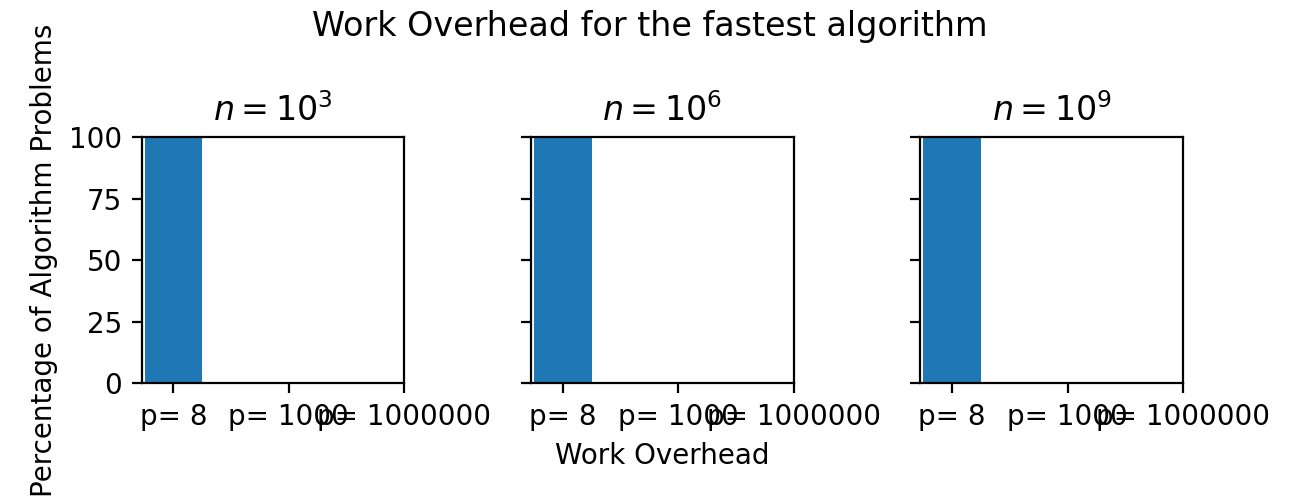
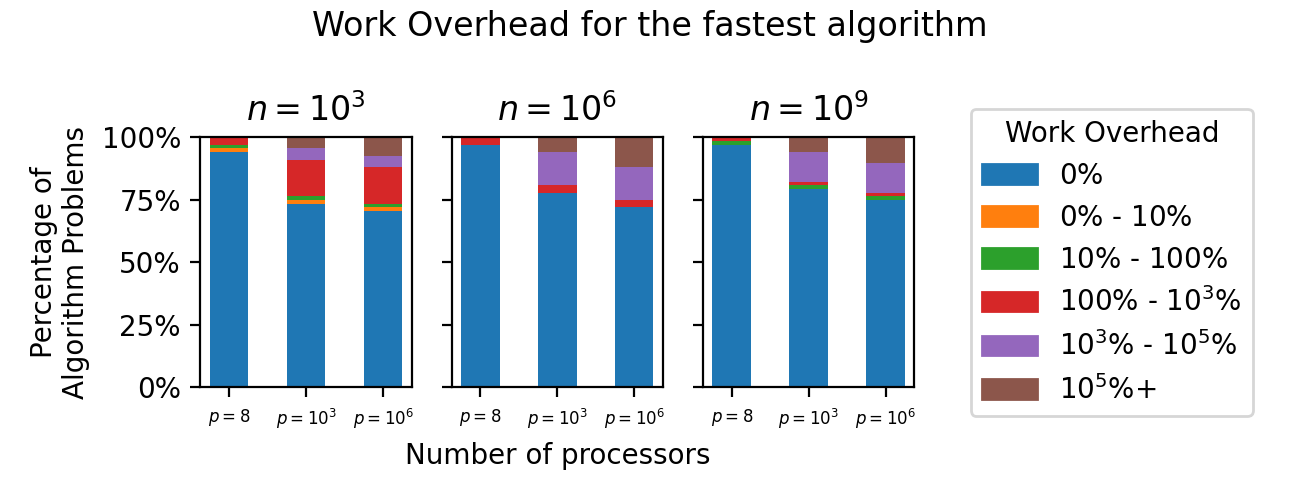
changed work overhead plot

diff --git a/src/paper_plots/aggregate_switch_to_work_ineff.py b/src/paper_plots/aggregate_switch_to_work_ineff.py
@@ -1,5 +1,6 @@
 # collection of aggregate graphs for speedup vs processors
 from header import *
+from matplotlib.ticker import PercentFormatter
 
 
 # what percentage of families have their best (in terms of speedup) algo be
@@ -391,7 +392,7 @@ def work_overhead_histogram(par_data,seq_data,problems,p,n=10**6,
     # for every problem, find its work overhead and increment the bucket's count
     overhead_bucket_counts = [0]*n_of_buckets
     for problem in problems:
-        print(problem)
+        #print(problem)
         max_speedup = best_algos_by_speedup(par_data,seq_data,problem,n=n,max_p=p+1,
                             allowed_models=allowed_models)
         # print(max_speedup)
@@ -428,7 +429,7 @@ def work_overhead_histogram(par_data,seq_data,problems,p,n=10**6,
             #     print(problem)
             overhead_bucket_counts[j] += 1
         
-    print(overhead_bucket_counts)
+    #print(overhead_bucket_counts)
 
     return [overhead_bucket_counts[i]/sum(overhead_bucket_counts) for i in range(len(overhead_bucket_counts))]
 
@@ -487,8 +488,11 @@ def NEW_work_overhead_histogram_graph_multiple_p(par_data,seq_data,problems,p_va
         
         ax[i].set_title("$n = " + str(get_nice_n(n))+"$")
 
-    ax[int(len(n_values)/2)].set_xlabel("Work Overhead")
-    ax[0].set_ylabel("Percentage of Algorithm Problems")
+    
+
+    ax[i].yaxis.set_major_formatter(PercentFormatter(xmax=100))
+    ax[int(len(n_values)/2)].set_xlabel("Number of processors")
+    ax[0].set_ylabel("Percentage of\nAlgorithm Problems")
     fig.suptitle("Work Overhead for the fastest algorithm")
 
     plt.savefig(SAVE_LOC+'NEW_work_overhead_histo_different_ps.png')
@@ -496,42 +500,61 @@ def NEW_work_overhead_histogram_graph_multiple_p(par_data,seq_data,problems,p_va
 
     pass
 
-def NEW_work_overhead_histogram_graph_helper(ax,par_data,seq_data,problems,n,p_values=[8,10**3,10**6],
-                            upper_bounds=[0,10,50,100,math.inf],
-                            max_p=10**9,allowed_models=set(model_dict.keys())):
+
+def NEW_work_overhead_histogram_graph_helper(ax, par_data, seq_data, problems, n, 
+                                             p_values=[8, 10**3, 10**6],
+                                             upper_bounds=[0, 10, 50, 100, math.inf], 
+                                             max_p=10**9, 
+                                             allowed_models=set(model_dict.keys())):
 
     x_positions = np.arange(len(p_values))
 
-    j=0
-    handles = []
-    bucket_colors=[]
-    for b in range(len(upper_bounds)-1):
-        b_color = COLORS[j]
-        bucket_colors.append(b_color)
-        # new_patch = mpatches.Patch(color=b_color, 
-        #                            label="$" + get_nice_n(upper_bounds[b]) + "$" + "-" + "$" + get_nice_n(upper_bounds[b+1]) + "$" + "%")
-        # handles.append(new_patch)
-        # j+=1
-    i=0
-    for p in p_values:
+    b_color=COLORS[0]
+    label=f"${0}$%"
+    bucket_colors = [b_color]
+    legend_patches = [mpatches.Patch(color=b_color, label=label)]  # List to store legend entries
 
-        # getting the x and y values
-        oh_histo = work_overhead_histogram(par_data,seq_data,problems,p,n=n,
-                            upper_bounds=upper_bounds,
-                            max_p=max_p,allowed_models=allowed_models)
-        
-        #stacked bar
+
+    for j in range(len(upper_bounds) - 1):
+        b_color = COLORS[j+1]  # Wrap around if not enough colors
+        bucket_colors.append(b_color)
+
+        # Handle "infinity" case for legend
+        lower_bound = get_nice_n(upper_bounds[j])
+        upper_bound = f" - ${get_nice_n(upper_bounds[j + 1])}$%" if upper_bounds[j + 1] != math.inf else "+"
+        label = f"${lower_bound}$%{upper_bound}"
+
+        legend_patches.append(mpatches.Patch(color=b_color, label=label))
+
+    for i, p in enumerate(p_values):  # Enumerate over p_values
+
+        # Get histogram values
+        oh_histo = work_overhead_histogram(par_data, seq_data, problems, p, n=n,
+                                           upper_bounds=upper_bounds,
+                                           max_p=max_p, allowed_models=allowed_models)
+
+        # # Debug: Check that histogram values sum to 1
+        # total_fraction = sum(oh_histo)
+        # print(f"p={p}: oh_histo={oh_histo}, sum={total_fraction}")  # Debug output
+
+        # if not np.isclose(total_fraction, 1.0):
+        #     print(f"Warning: Histogram fractions for p={p} do not sum to 1!")
+
+        # Stacked bar
         bottom = 0
         for frac, color in zip(oh_histo, bucket_colors):
-            ax.bar(x_positions[i], frac * 100, color=color, bottom=bottom * 100, width=0.5)
-            bottom += frac  #bottom for stacking
+            height = frac * 100  # Convert fraction to percentage
+            ax.bar(x_positions[i], height, color=color, bottom=bottom, width=0.5)
+            bottom += height  # Properly accumulate bottom for stacking
 
-
+    # Set x-ticks
     ax.set_xticks(x_positions)
-    ax.set_xticklabels([f"p= {get_nice_n(i)}" for i in p_values])
-    i+=1
+    ax.set_xticklabels([f"$p= {get_nice_n(i)}$" for i in p_values])
+    ax.tick_params(axis='x', labelsize=6)
+
+    # Add legend
+    if (n==10**9):
+        ax.legend(handles=legend_patches, title="Work Overhead", loc="center left", bbox_to_anchor=(1.2, 0.5))
+
 
     return ax
-
-    pass
-

diff --git a/main.py b/main.py
@@ -551,13 +551,15 @@ print("figure 1.2: Algorithm Problem Average Yearly Improvement Rate (Sequantial
 # problems_work_efficiency_by_processors_graph(simulated_par_data,full_seq_data,pset, n = 10**6, max_p=10**9,allowed_models=set(model_dict.keys()))
 
 # print("figure 1.5: Work Overhead for the fastest algorithm")
+#THIS ONE IS THE OLD VERSION
 # work_overhead_histogram_graph_multiple_p(simulated_par_data,full_seq_data,pset,p_values=[8,10**3,10**6],n_values=[10**3,10**6,10**9],
 #                             upper_bounds=[0,10,100,1000,10000,math.inf],
 #                             max_p=10**9,allowed_models=set(model_dict.keys()))
 
-NEW_work_overhead_histogram_graph_multiple_p(simulated_par_data,full_seq_data,pset,p_values=[8,10**3,10**6],n_values=[10**3,10**6,10**9],
-                            upper_bounds=[0,10,100,1000,10000,math.inf],
-                            max_p=10**9,allowed_models=set(model_dict.keys()))
+#USE THIS ONE:
+# NEW_work_overhead_histogram_graph_multiple_p(simulated_par_data,full_seq_data,pset,p_values=[8,10**3,10**6],n_values=[10**3,10**6,10**9],
+#                             upper_bounds=[0,10,100,1000,10000,math.inf],
+#                             max_p=10**9,allowed_models=set(model_dict.keys()))
 
 
 # probs=get_problems(full_data)
